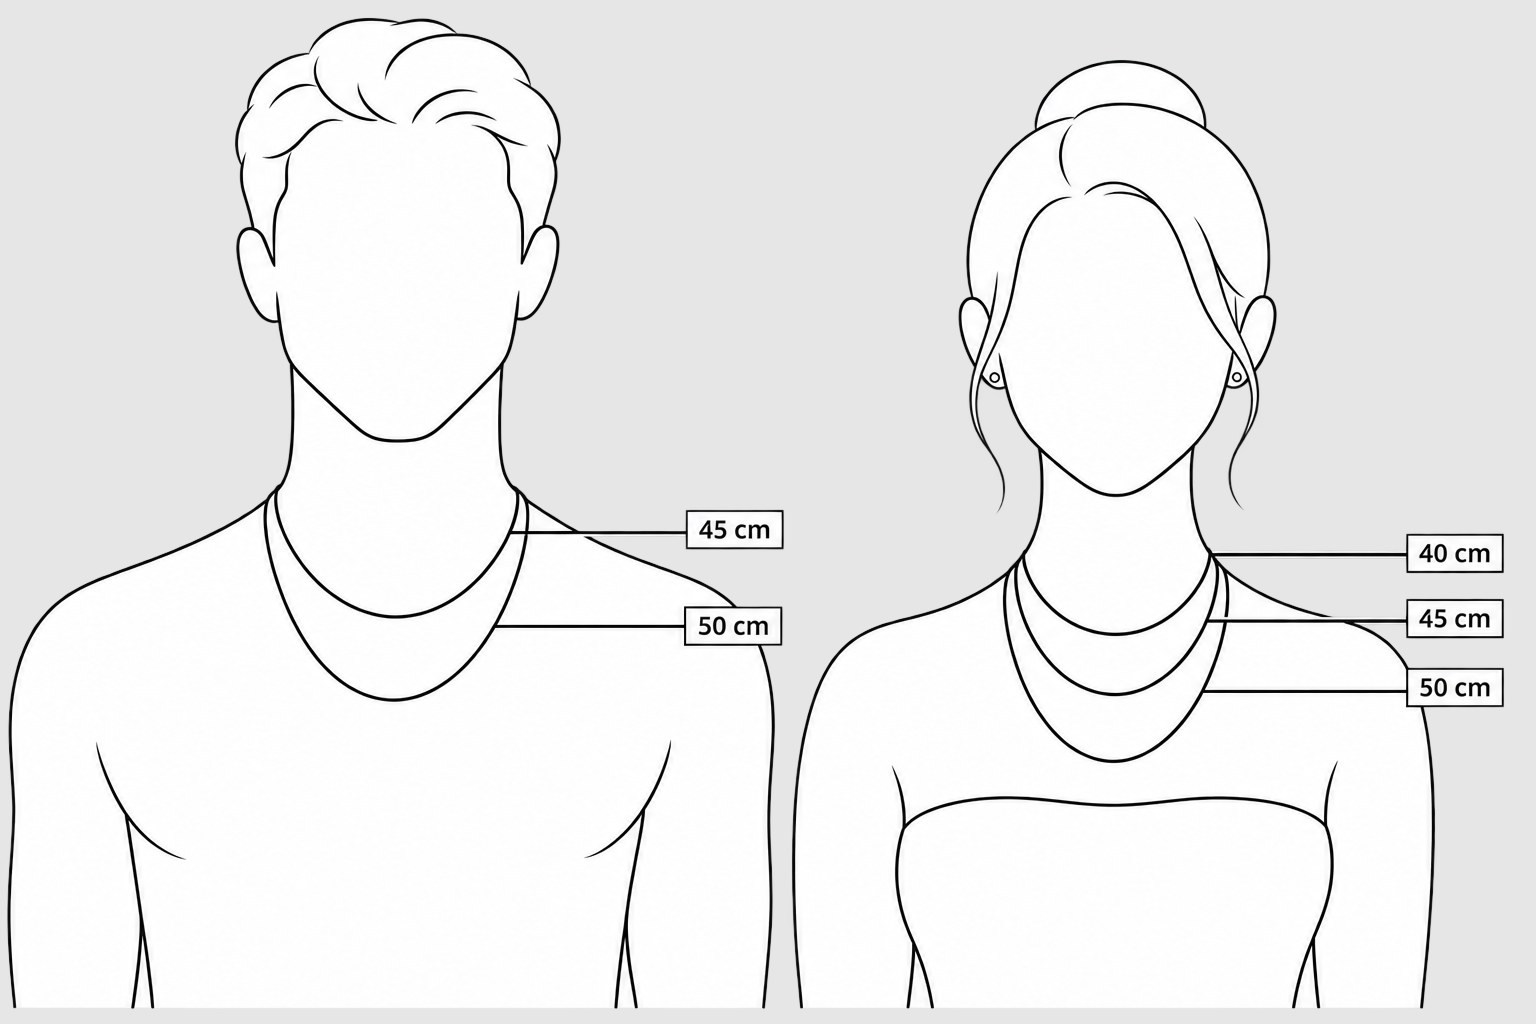
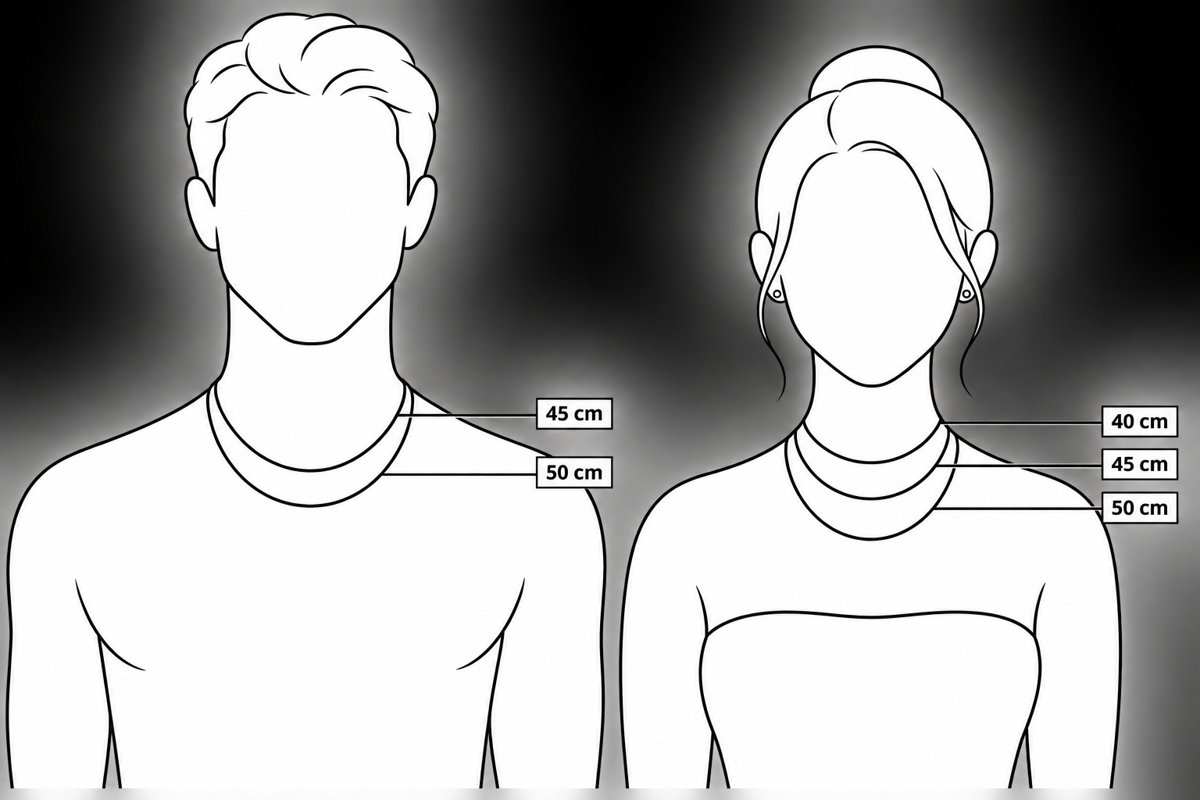
Add files via upload

diff --git a/produit-neptune.html b/produit-neptune.html
@@ -302,7 +302,7 @@
   }
   .taille.actif { background: var(--encre); color: var(--creme); border-color: var(--encre); }
   .t-note { margin-top: 8px; font-size: 9px; text-transform: uppercase; letter-spacing: 0.14em; color: rgba(27,30,36,0.55); }
-  .img-guide { width: 100%; display: block; margin: 6px 0 10px; }
+  .img-guide { width: 100%; max-width: 300px; display: block; margin: 6px 0 10px; }
 </style>
 </head>
 <body>

diff --git a/produit-sunset.html b/produit-sunset.html
@@ -302,7 +302,7 @@
   }
   .taille.actif { background: var(--encre); color: var(--creme); border-color: var(--encre); }
   .t-note { margin-top: 8px; font-size: 9px; text-transform: uppercase; letter-spacing: 0.14em; color: rgba(27,30,36,0.55); }
-  .img-guide { width: 100%; display: block; margin: 6px 0 10px; }
+  .img-guide { width: 100%; max-width: 300px; display: block; margin: 6px 0 10px; }
 </style>
 </head>
 <body>

diff --git a/produit-amore.html b/produit-amore.html
@@ -301,7 +301,7 @@
     letter-spacing: 0.14em; padding: 10px 18px; cursor: pointer;
   }
   .taille.actif { background: var(--encre); color: var(--creme); border-color: var(--encre); }
-  .img-guide { width: 100%; display: block; margin: 6px 0 10px; }
+  .img-guide { width: 100%; max-width: 300px; display: block; margin: 6px 0 10px; }
 </style>
 </head>
 <body>

diff --git a/produit-amuleto.html b/produit-amuleto.html
@@ -300,7 +300,7 @@
     letter-spacing: 0.14em; padding: 10px 18px; cursor: pointer;
   }
   .taille.actif { background: var(--encre); color: var(--creme); border-color: var(--encre); }
-  .img-guide { width: 100%; display: block; margin: 6px 0 10px; }
+  .img-guide { width: 100%; max-width: 300px; display: block; margin: 6px 0 10px; }
 </style>
 </head>
 <body>

diff --git a/produit-bianca.html b/produit-bianca.html
@@ -301,7 +301,7 @@
     letter-spacing: 0.14em; padding: 10px 18px; cursor: pointer;
   }
   .taille.actif { background: var(--encre); color: var(--creme); border-color: var(--encre); }
-  .img-guide { width: 100%; display: block; margin: 6px 0 10px; }
+  .img-guide { width: 100%; max-width: 300px; display: block; margin: 6px 0 10px; }
 </style>
 </head>
 <body>

diff --git a/produit-bodrum.html b/produit-bodrum.html
@@ -310,7 +310,7 @@
     letter-spacing: 0.14em; padding: 10px 18px; cursor: pointer;
   }
   .taille.actif { background: var(--encre); color: var(--creme); border-color: var(--encre); }
-  .img-guide { width: 100%; display: block; margin: 6px 0 10px; }
+  .img-guide { width: 100%; max-width: 300px; display: block; margin: 6px 0 10px; }
 </style>
 </head>
 <body>

diff --git a/produit-capri.html b/produit-capri.html
@@ -300,7 +300,7 @@
     letter-spacing: 0.14em; padding: 10px 18px; cursor: pointer;
   }
   .taille.actif { background: var(--encre); color: var(--creme); border-color: var(--encre); }
-  .img-guide { width: 100%; display: block; margin: 6px 0 10px; }
+  .img-guide { width: 100%; max-width: 300px; display: block; margin: 6px 0 10px; }
 </style>
 </head>
 <body>

diff --git a/produit-casablanca.html b/produit-casablanca.html
@@ -300,7 +300,7 @@
     letter-spacing: 0.14em; padding: 10px 18px; cursor: pointer;
   }
   .taille.actif { background: var(--encre); color: var(--creme); border-color: var(--encre); }
-  .img-guide { width: 100%; display: block; margin: 6px 0 10px; }
+  .img-guide { width: 100%; max-width: 300px; display: block; margin: 6px 0 10px; }
 </style>
 </head>
 <body>

diff --git a/produit-fiesta.html b/produit-fiesta.html
@@ -300,7 +300,7 @@
     letter-spacing: 0.14em; padding: 10px 18px; cursor: pointer;
   }
   .taille.actif { background: var(--encre); color: var(--creme); border-color: var(--encre); }
-  .img-guide { width: 100%; display: block; margin: 6px 0 10px; }
+  .img-guide { width: 100%; max-width: 300px; display: block; margin: 6px 0 10px; }
 </style>
 </head>
 <body>

diff --git a/produit-ibiza.html b/produit-ibiza.html
@@ -300,7 +300,7 @@
     letter-spacing: 0.14em; padding: 10px 18px; cursor: pointer;
   }
   .taille.actif { background: var(--encre); color: var(--creme); border-color: var(--encre); }
-  .img-guide { width: 100%; display: block; margin: 6px 0 10px; }
+  .img-guide { width: 100%; max-width: 300px; display: block; margin: 6px 0 10px; }
 </style>
 </head>
 <body>

diff --git a/produit-laguna.html b/produit-laguna.html
@@ -300,7 +300,7 @@
     letter-spacing: 0.14em; padding: 10px 18px; cursor: pointer;
   }
   .taille.actif { background: var(--encre); color: var(--creme); border-color: var(--encre); }
-  .img-guide { width: 100%; display: block; margin: 6px 0 10px; }
+  .img-guide { width: 100%; max-width: 300px; display: block; margin: 6px 0 10px; }
 </style>
 </head>
 <body>

diff --git a/produit-limone.html b/produit-limone.html
@@ -300,7 +300,7 @@
     letter-spacing: 0.14em; padding: 10px 18px; cursor: pointer;
   }
   .taille.actif { background: var(--encre); color: var(--creme); border-color: var(--encre); }
-  .img-guide { width: 100%; display: block; margin: 6px 0 10px; }
+  .img-guide { width: 100%; max-width: 300px; display: block; margin: 6px 0 10px; }
 </style>
 </head>
 <body>
